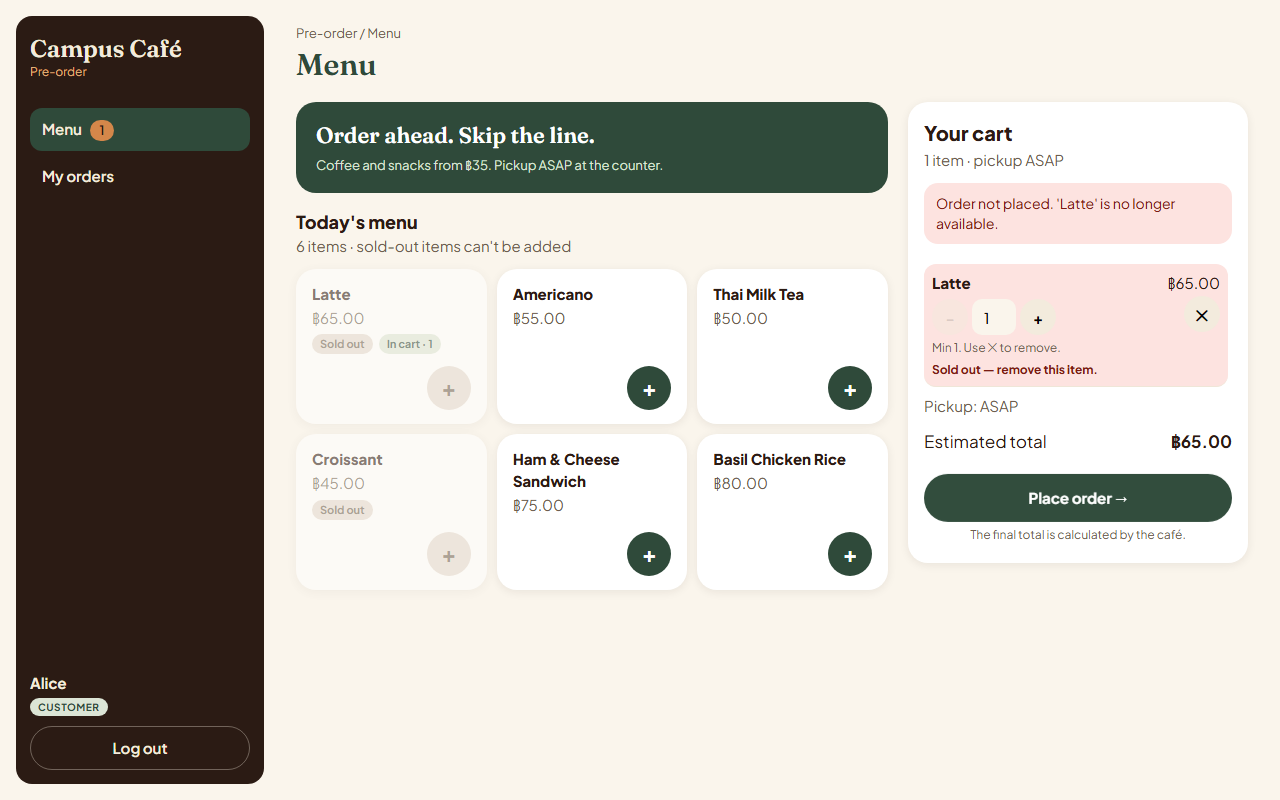
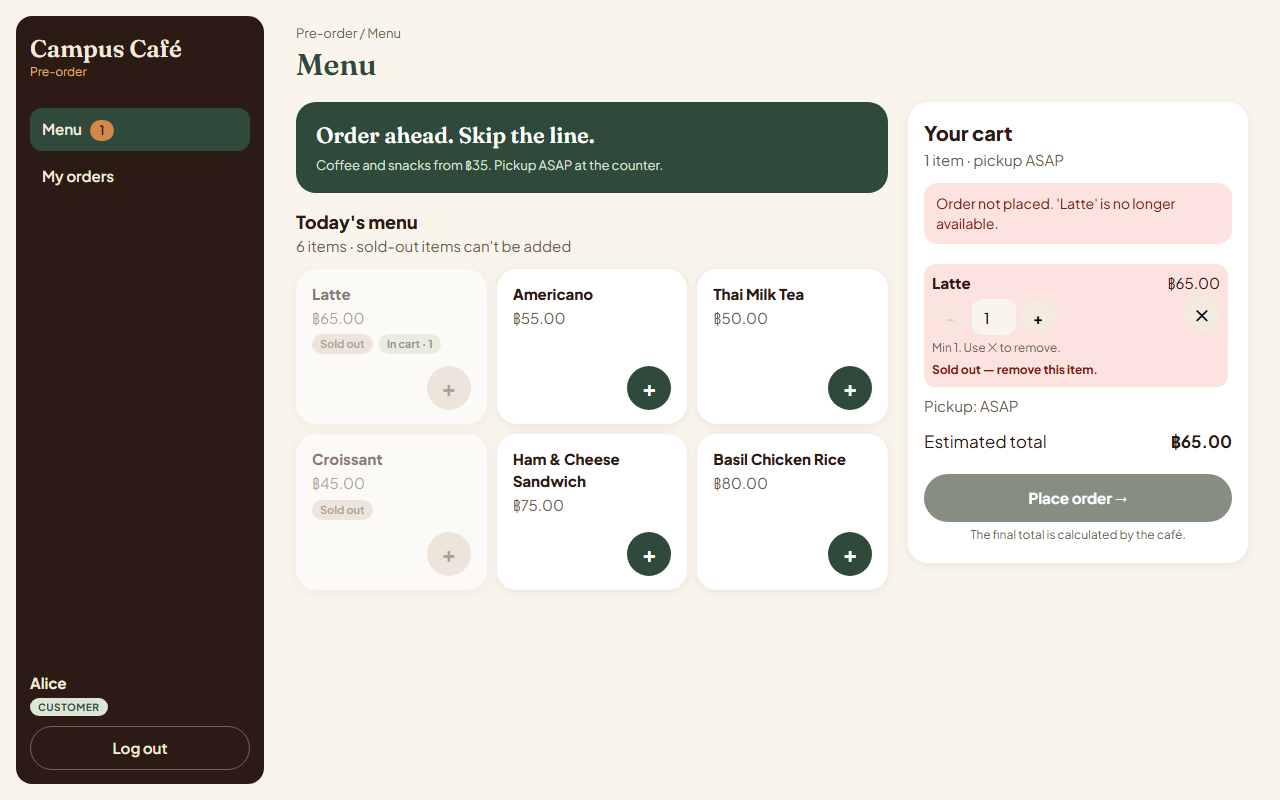
fix(L7-1): C-1 at most 15 items in total (API check, cart cap and warning); old tests 05/18/23 use reachable numbers; green.txt, regression.txt

Changed region(s): [[0.7188, 0.5938, 0.9688, 0.6562]]

diff --git a/client/src/lib/cart.ts b/client/src/lib/cart.ts
@@ -1,10 +1,12 @@
 // Client cart (F-03). Only for convenience: the server re-checks every rule (BR-01..BR-04).
 export const MAX_QTY = 10; // BR-01
 export const MAX_LINES = 20; // BR-02
+export const MAX_ITEMS = 15; // BR-01b (Lab 7, C-1): items in total over all lines
 
 export type CartLine = { menuItemId: number; name: string; price: number; quantity: number };
 export type Cart = { lines: CartLine[] };
 export const emptyCart: Cart = { lines: [] };
+export const itemCount = (cart: Cart) => cart.lines.reduce((n, l) => n + l.quantity, 0);
 
 type Item = { id: number; name: string; price: number };
 export type CartAction =
@@ -20,14 +22,16 @@ export function cartReducer(cart: Cart, action: CartAction): Cart {
     case "add": {
       const line = cart.lines.find((l) => l.menuItemId === action.item.id);
       if (line) return cartReducer(cart, { type: "setQty", menuItemId: line.menuItemId, quantity: line.quantity + 1 });
-      if (cart.lines.length >= MAX_LINES) return cart;
+      if (cart.lines.length >= MAX_LINES || itemCount(cart) >= MAX_ITEMS) return cart;
       const { id, name, price } = action.item;
       return { lines: [...cart.lines, { menuItemId: id, name, price, quantity: 1 }] };
     }
-    case "setQty":
-      return {
-        lines: cart.lines.map((l) => (l.menuItemId === action.menuItemId ? { ...l, quantity: clampQty(action.quantity) } : l)),
-      };
+    case "setQty": {
+      // the other lines keep their quantity; this line may only use what is left of the 15 (never below 1)
+      const others = itemCount(cart) - (cart.lines.find((l) => l.menuItemId === action.menuItemId)?.quantity ?? 0);
+      const q = Math.max(1, Math.min(clampQty(action.quantity), MAX_ITEMS - others));
+      return { lines: cart.lines.map((l) => (l.menuItemId === action.menuItemId ? { ...l, quantity: q } : l)) };
+    }
     case "remove":
       return { lines: cart.lines.filter((l) => l.menuItemId !== action.menuItemId) };
     case "clear":
@@ -38,4 +42,5 @@ export function cartReducer(cart: Cart, action: CartAction): Cart {
 export const estimatedTotal = (cart: Cart) => cart.lines.reduce((sum, l) => sum + l.price * l.quantity, 0);
 
 // ui-spec S2: at 20 lines every + on the menu is disabled (lines in the cart change only with their stepper).
-export const canAddFromMenu = (cart: Cart) => cart.lines.length < MAX_LINES;
+export const canAddFromMenu = (cart: Cart) => cart.lines.length < MAX_LINES && itemCount(cart) < MAX_ITEMS;
+export const atItemLimit = (cart: Cart) => itemCount(cart) >= MAX_ITEMS;

diff --git a/client/src/pages/MenuPage.tsx b/client/src/pages/MenuPage.tsx
@@ -2,7 +2,7 @@ import { useCallback, useEffect, useState } from "react";
 import { useLocation, useNavigate } from "react-router-dom";
 import { api, ApiError, NETWORK_MESSAGE } from "../api";
 import { useCart } from "../cart";
-import { canAddFromMenu, estimatedTotal, MAX_QTY } from "../lib/cart";
+import { atItemLimit, canAddFromMenu, estimatedTotal, MAX_ITEMS, MAX_QTY } from "../lib/cart";
 import { formatBaht } from "../lib/money";
 import type { Order } from "../lib/orders";
 
@@ -99,7 +99,8 @@ export function MenuPage() {
   const count = cart.lines.reduce((n, l) => n + l.quantity, 0);
   const total = estimatedTotal(cart);
   const full = !canAddFromMenu(cart);
-  const fullMsg = "Cart is full (20 different items max).";
+  const atLimit = atItemLimit(cart);
+  const fullMsg = atLimit ? "" : "Cart is full (20 different items max).";
 
   async function placeOrder() {
     setSubmitting(true);
@@ -185,7 +186,7 @@ export function MenuPage() {
                   <button
                     aria-label={`More ${l.name}`}
                     title={l.quantity >= MAX_QTY ? "Max 10 per item." : undefined}
-                    disabled={submitting || l.quantity >= MAX_QTY}
+                    disabled={submitting || l.quantity >= MAX_QTY || atLimit}
                     onClick={() => dispatch({ type: "setQty", menuItemId: l.menuItemId, quantity: l.quantity + 1 })}
                   >
                     +
@@ -210,7 +211,12 @@ export function MenuPage() {
           ))}
         </ul>
       )}
-      {full && <div className="msg info">{fullMsg}</div>}
+      {atLimit && (
+        <div className="msg info" role="status">
+          Limit reached: an order can have at most {MAX_ITEMS} items in total.
+        </div>
+      )}
+      {full && !atLimit && <div className="msg info">{fullMsg}</div>}
       <p className="muted">Pickup: ASAP</p>
       <div className="cart-total">
         <span>Estimated total</span>
@@ -236,7 +242,7 @@ export function MenuPage() {
             <p className="muted">{load.items.length} items · sold-out items can't be added</p>
           </div>
         )}
-        {full && <p className="hint">{fullMsg}</p>}
+        {full && !atLimit && <p className="hint">{fullMsg}</p>}
         <MenuList
           load={load}
           reload={reload}

diff --git a/client/src/lib/cart.test.ts b/client/src/lib/cart.test.ts
@@ -1,5 +1,5 @@
 import { describe, it, expect } from "vitest";
-import { canAddFromMenu, cartReducer, emptyCart, MAX_LINES, type Cart } from "./cart";
+import { canAddFromMenu, cartReducer, emptyCart, MAX_ITEMS, MAX_LINES, type Cart } from "./cart";
 
 const item = (id: number, price = 1000) => ({ id, name: `Item ${id}`, price });
 const apply = (cart: Cart, ...actions: Parameters<typeof cartReducer>[1][]) => actions.reduce(cartReducer, cart);
@@ -20,9 +20,8 @@ describe("cartReducer", () => {
     cart = apply(cart, { type: "setQty", menuItemId: 1, quantity: 10 }, { type: "add", item: item(1) });
     expect(cart.lines[0].quantity).toBe(10); // + at 10 does nothing
 
-    let full = emptyCart;
-    for (let i = 1; i <= MAX_LINES; i++) full = apply(full, { type: "add", item: item(i) });
-    expect(full.lines).toHaveLength(20);
+    // 20 lines built directly: the reducer itself stops at 15 items (C-1)
+    const full: Cart = { lines: Array.from({ length: MAX_LINES }, (_, i) => ({ menuItemId: i + 1, name: `Item ${i + 1}`, price: 1000, quantity: 1 })) };
     expect(apply(full, { type: "add", item: item(21) }).lines).toHaveLength(20);
   });
 
@@ -33,12 +32,14 @@ describe("cartReducer", () => {
     expect(apply(cart, { type: "clear" }).lines).toEqual([]);
   });
 
-  it("TEST-F03-23 at 20 lines every menu + is disabled", () => {
+  it("TEST-F03-23 at 15 items every menu + is disabled (was 20 lines; 20 lines are no longer reachable)", () => {
     let cart = emptyCart;
-    for (let i = 1; i < MAX_LINES; i++) cart = apply(cart, { type: "add", item: item(i) });
-    expect(canAddFromMenu(cart)).toBe(true);
-    cart = apply(cart, { type: "add", item: item(MAX_LINES) });
-    expect(canAddFromMenu(cart)).toBe(false);
+    for (let i = 1; i < MAX_ITEMS; i++) cart = apply(cart, { type: "add", item: item(i) });
+    expect(canAddFromMenu(cart)).toBe(true); // 14 lines of 1
+    cart = apply(cart, { type: "add", item: item(MAX_ITEMS) });
+    expect(canAddFromMenu(cart)).toBe(false); // 15
+    const twenty: Cart = { lines: Array.from({ length: MAX_LINES }, (_, i) => ({ menuItemId: i + 1, name: "x", price: 1, quantity: 1 })) };
+    expect(canAddFromMenu(twenty)).toBe(false);
   });
 });
 

diff --git a/server/tests/orders.test.ts b/server/tests/orders.test.ts
@@ -73,11 +73,11 @@ describe("F-03 POST /api/orders", () => {
     await expectNothingSaved();
   });
 
-  it("TEST-F03-05 BR-02 boundary: 20 different lines are accepted", async () => {
-    const ids = (await addAvailableItems(15)).slice(0, 20);
+  it("TEST-F03-05 BR-02 boundary: 15 different lines are accepted (20 lines need 20 items, above the C-1 limit)", async () => {
+    const ids = (await addAvailableItems(15)).slice(0, 15);
     const res = await place(alice, { items: ids.map((menuItemId) => ({ menuItemId, quantity: 1 })) });
     expect(res.status).toBe(201);
-    expect(res.body.lines).toHaveLength(20);
+    expect(res.body.lines).toHaveLength(15);
   });
 
   it("TEST-F03-06 BR-02 21 lines: 400, nothing saved", async () => {
@@ -236,6 +236,22 @@ describe("Lab 7 C-1 BR-01b at most 15 items in total", () => {
     const res = await place(alice, { items: items() });
     expect(res.status).toBe(400);
     expect(res.body.error.code).toBe("VALIDATION_ERROR");
+    expect(res.body.error.message).toBe("An order can have at most 15 items in total");
+    expect(res.body.error.details).toEqual({ field: "lines", max: 15, total: 16 });
+    await expectNothingSaved();
+  });
+
+  it("TEST-L7-3 details.total is the real sum: 10 + 10 gives total 20", async () => {
+    const res = await place(alice, { items: two(10, 10) });
+    expect(res.status).toBe(400);
+    expect(res.body.error.details).toEqual({ field: "lines", max: 15, total: 20 });
+    await expectNothingSaved();
+  });
+
+  it("TEST-L7-3 16 lines of 1 are rejected (total 16), nothing saved", async () => {
+    const ids = (await addAvailableItems(11)).slice(0, 16);
+    const res = await place(alice, { items: ids.map((menuItemId) => ({ menuItemId, quantity: 1 })) });
+    expect(res.status).toBe(400);
     expect(res.body.error.message).toBe("An order can have at most 15 items in total");
     expect(res.body.error.details).toEqual({ field: "lines", max: 15, total: 16 });
     await expectNothingSaved();

diff --git a/server/src/orders/routes.ts b/server/src/orders/routes.ts
@@ -9,6 +9,8 @@ import { dbId, MAX_DB_ID } from "../ids.js";
 export const ordersRouter = Router();
 ordersRouter.use(requireRole("CUSTOMER"));
 
+const MAX_ORDER_ITEMS = 15; // BR-01b
+
 // Strict: any extra key (price, unitPrice, total, customerId...) is a 400 (BR-04).
 const placeBody = z.strictObject({
   items: z
@@ -26,6 +28,16 @@ type BadItem = { menuItemId: number; reason: "DUPLICATE" | "NOT_FOUND" | "SOLD_O
 
 ordersRouter.post("/", async (req, res) => {
   const { items } = placeBody.parse(req.body);
+
+  // BR-01b (Lab 7, C-1): at most 15 items in total over all lines.
+  const total = items.reduce((n, i) => n + i.quantity, 0);
+  if (total > MAX_ORDER_ITEMS) {
+    throw new AppError(400, "VALIDATION_ERROR", `An order can have at most ${MAX_ORDER_ITEMS} items in total`, {
+      field: "lines",
+      max: MAX_ORDER_ITEMS,
+      total,
+    });
+  }
 
   const seen = new Set<number>();
   const duplicates: BadItem[] = [];

diff --git a/docs/sprint_1/traceability.md b/docs/sprint_1/traceability.md
@@ -10,7 +10,7 @@ Sprint 1 AC and test IDs come from the contracts in `docs/sprint_1/sprints/sprin
 
 | Req | Rule (short) | Feature | Sprint | AC | Tests | Result |
 |---|---|---|---|---|---|---|
-| BR-01 | Quantity per line is a whole number 1–10; **C-1:** at most 15 items in total per order | F-03 | 1 + Lab 7 | AC-F03-02, AC-F03-12, AC-L7-01..04 | TEST-F03-02, -03 (API); -18 (unit); TEST-L7-1..3 (API), -4 (unit), -5 (E2E) | Pending (Lab 7) |
+| BR-01 | Quantity per line is a whole number 1–10; **C-1:** at most 15 items in total per order | F-03 | 1 + Lab 7 | AC-F03-02, AC-F03-12, AC-L7-01..04 | TEST-F03-02, -03 (API); -18 (unit); TEST-L7-1..3 (API), -4 (unit), -5 (E2E) | Pass |
 | BR-02 | 1–20 lines, no duplicate menu item | F-03 | 1 | AC-F03-03, AC-F03-12 | TEST-F03-04, -05, -06, -07 (API); -17, -18, -23 (unit) | Pass |
 | BR-03 | Every item exists and is available, else nothing is saved | F-02, F-03 | 1 | AC-F02-02, AC-F02-06, AC-F03-04, AC-F03-11 | TEST-F02-02 (API), -08 (E2E); TEST-F03-08, -09 (API), -20 (E2E) | Pass |
 | BR-04 | Server calculates the total; price/total in request → 400 | F-03 | 1 | AC-F03-01, AC-F03-05 | TEST-F03-01, -10 (API) | Pass |
